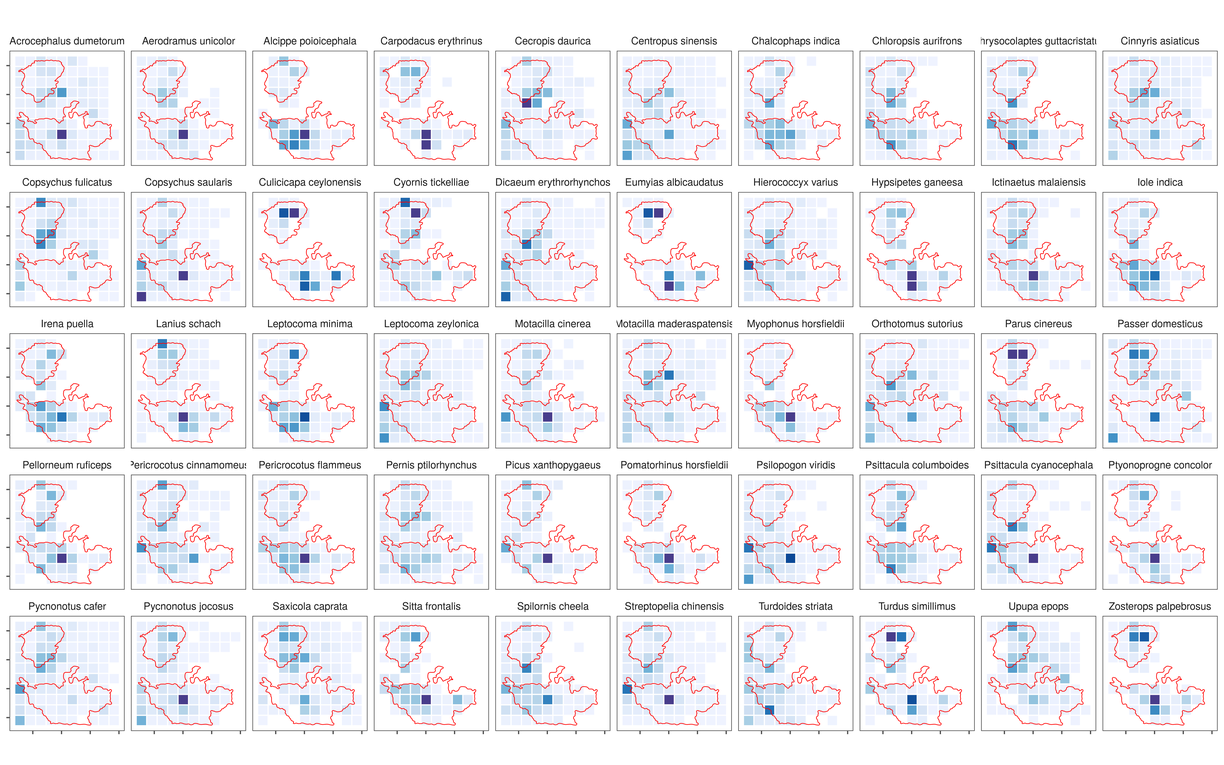
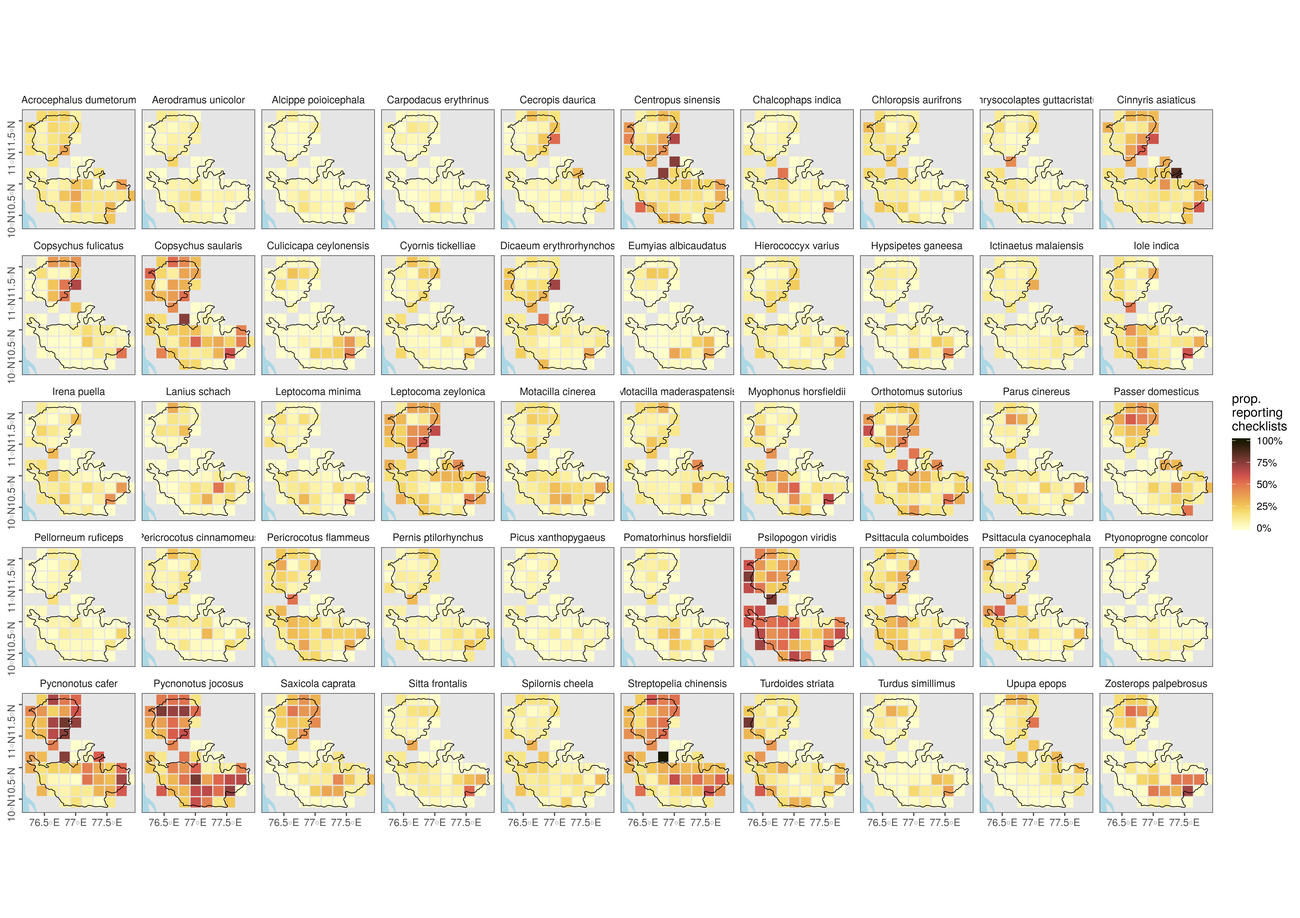
update bookdown file

diff --git a/docs/supplementary-material.html b/docs/supplementary-material.html
@@ -24,7 +24,7 @@
 <meta name="author" content="Vijay Ramesh, Pratik R Gupte, and Morgan Tingley" />
 
 
-<meta name="date" content="2020-01-09" />
+<meta name="date" content="2020-01-11" />
 
   <meta name="viewport" content="width=device-width, initial-scale=1" />
   <meta name="apple-mobile-web-app-capable" content="yes" />
@@ -393,9 +393,14 @@ code span.wa { color: #60a0b0; font-weight: bold; font-style: italic; } /* Warni
 <a class="sourceLine" id="cb58-4" title="4"><span class="kw">library</span>(magrittr)</a>
 <a class="sourceLine" id="cb58-5" title="5"><span class="kw">library</span>(stringr)</a>
 <a class="sourceLine" id="cb58-6" title="6"><span class="kw">library</span>(dplyr)</a>
-<a class="sourceLine" id="cb58-7" title="7"></a>
-<a class="sourceLine" id="cb58-8" title="8"><span class="kw">library</span>(ggplot2)</a>
-<a class="sourceLine" id="cb58-9" title="9"><span class="kw">library</span>(ggthemes)</a></code></pre></div>
+<a class="sourceLine" id="cb58-7" title="7"><span class="kw">library</span>(tidyr)</a>
+<a class="sourceLine" id="cb58-8" title="8"></a>
+<a class="sourceLine" id="cb58-9" title="9"><span class="kw">library</span>(ggplot2)</a>
+<a class="sourceLine" id="cb58-10" title="10"><span class="kw">library</span>(ggthemes)</a>
+<a class="sourceLine" id="cb58-11" title="11"><span class="kw">library</span>(scico)</a>
+<a class="sourceLine" id="cb58-12" title="12"></a>
+<a class="sourceLine" id="cb58-13" title="13"><span class="co"># round any function</span></a>
+<a class="sourceLine" id="cb58-14" title="14">round_any &lt;-<span class="st"> </span><span class="cf">function</span>(x, <span class="dt">accuracy =</span> <span class="dv">20000</span>){<span class="kw">round</span>(x<span class="op">/</span>accuracy)<span class="op">*</span>accuracy}</a></code></pre></div>
 </div>
 <div id="read-species-of-interest" class="section level3">
 <h3><span class="header-section-number">7.2.2</span> Read species of interest</h3>
@@ -421,77 +426,96 @@ code span.wa { color: #60a0b0; font-weight: bold; font-style: italic; } /* Warni
 <a class="sourceLine" id="cb60-14" title="14"></a>
 <a class="sourceLine" id="cb60-15" title="15"><span class="co"># keep useful columns</span></a>
 <a class="sourceLine" id="cb60-16" title="16">columnsOfInterest &lt;-<span class="st"> </span><span class="kw">c</span>(<span class="st">&quot;scientific_name&quot;</span>,<span class="st">&quot;observation_count&quot;</span>,<span class="st">&quot;locality&quot;</span>,<span class="st">&quot;locality_id&quot;</span>,<span class="st">&quot;locality_type&quot;</span>,<span class="st">&quot;latitude&quot;</span>,<span class="st">&quot;longitude&quot;</span>,<span class="st">&quot;observation_date&quot;</span>, <span class="st">&quot;sampling_event_identifier&quot;</span>)</a>
-<a class="sourceLine" id="cb60-17" title="17"></a>
-<a class="sourceLine" id="cb60-18" title="18"><span class="co"># keep species of interest</span></a>
-<a class="sourceLine" id="cb60-19" title="19">ebd &lt;-<span class="st"> </span>ebd[scientific_name <span class="op">%in%</span><span class="st"> </span>speciesOfInterest,]</a>
-<a class="sourceLine" id="cb60-20" title="20"></a>
-<a class="sourceLine" id="cb60-21" title="21">ebd &lt;-<span class="st"> </span><span class="kw">select</span>(ebd, <span class="kw">one_of</span>(columnsOfInterest))</a></code></pre></div>
+<a class="sourceLine" id="cb60-17" title="17">ebd &lt;-<span class="st"> </span>ebd[,..columnsOfInterest]</a></code></pre></div>
+<div class="sourceCode" id="cb61"><pre class="sourceCode r"><code class="sourceCode r"><a class="sourceLine" id="cb61-1" title="1"><span class="co"># strict spatial filter and assign grid</span></a>
+<a class="sourceLine" id="cb61-2" title="2">locs &lt;-<span class="st"> </span>ebd[,.(longitude, latitude)]</a>
+<a class="sourceLine" id="cb61-3" title="3"></a>
+<a class="sourceLine" id="cb61-4" title="4"><span class="co"># transform to UTM and get 20km boxes</span></a>
+<a class="sourceLine" id="cb61-5" title="5">coords &lt;-<span class="st"> </span><span class="kw">setDF</span>(locs) <span class="op">%&gt;%</span><span class="st"> </span></a>
+<a class="sourceLine" id="cb61-6" title="6"><span class="st">  </span><span class="kw">st_as_sf</span>(<span class="dt">coords =</span> <span class="kw">c</span>(<span class="st">&quot;longitude&quot;</span>, <span class="st">&quot;latitude&quot;</span>)) <span class="op">%&gt;%</span><span class="st"> </span></a>
+<a class="sourceLine" id="cb61-7" title="7"><span class="st">  `</span><span class="dt">st_crs&lt;-</span><span class="st">`</span>(<span class="dv">4326</span>) <span class="op">%&gt;%</span><span class="st"> </span></a>
+<a class="sourceLine" id="cb61-8" title="8"><span class="st">  </span><span class="kw">bind_cols</span>(<span class="kw">as.data.table</span>(<span class="kw">st_coordinates</span>(.))) <span class="op">%&gt;%</span><span class="st">  </span></a>
+<a class="sourceLine" id="cb61-9" title="9"><span class="st">  </span><span class="kw">st_transform</span>(<span class="dv">32643</span>) <span class="op">%&gt;%</span><span class="st"> </span></a>
+<a class="sourceLine" id="cb61-10" title="10"><span class="st">  </span><span class="kw">mutate</span>(<span class="dt">id =</span> <span class="dv">1</span><span class="op">:</span><span class="kw">nrow</span>(.))</a>
+<a class="sourceLine" id="cb61-11" title="11"></a>
+<a class="sourceLine" id="cb61-12" title="12"><span class="co"># convert wg to UTM for filter</span></a>
+<a class="sourceLine" id="cb61-13" title="13">wg &lt;-<span class="st"> </span><span class="kw">st_transform</span>(wg, <span class="dv">32643</span>)</a>
+<a class="sourceLine" id="cb61-14" title="14">coords &lt;-<span class="st"> </span>coords <span class="op">%&gt;%</span><span class="st"> </span></a>
+<a class="sourceLine" id="cb61-15" title="15"><span class="st">  </span><span class="kw">filter</span>(id <span class="op">%in%</span><span class="st"> </span><span class="kw">unlist</span>(<span class="kw">st_contains</span>(wg, coords))) <span class="op">%&gt;%</span><span class="st"> </span></a>
+<a class="sourceLine" id="cb61-16" title="16"><span class="st">  </span><span class="kw">rename</span>(<span class="dt">longitude =</span> X, <span class="dt">latitude =</span> Y) <span class="op">%&gt;%</span><span class="st"> </span></a>
+<a class="sourceLine" id="cb61-17" title="17"><span class="st">  </span><span class="kw">bind_cols</span>(<span class="kw">as.data.table</span>(<span class="kw">st_coordinates</span>(.))) <span class="op">%&gt;%</span></a>
+<a class="sourceLine" id="cb61-18" title="18"><span class="st">  </span><span class="kw">st_drop_geometry</span>() <span class="op">%&gt;%</span><span class="st"> </span></a>
+<a class="sourceLine" id="cb61-19" title="19"><span class="st">  </span><span class="kw">as.data.table</span>()</a>
+<a class="sourceLine" id="cb61-20" title="20"></a>
+<a class="sourceLine" id="cb61-21" title="21"><span class="co"># remove unneeded objs</span></a>
+<a class="sourceLine" id="cb61-22" title="22"><span class="kw">rm</span>(locs); <span class="kw">gc</span>()</a>
+<a class="sourceLine" id="cb61-23" title="23"></a>
+<a class="sourceLine" id="cb61-24" title="24">coords &lt;-<span class="st"> </span>coords[,.N,by=.(longitude, latitude, X, Y)]</a>
+<a class="sourceLine" id="cb61-25" title="25"></a>
+<a class="sourceLine" id="cb61-26" title="26">ebd &lt;-<span class="st"> </span><span class="kw">merge</span>(ebd, coords, <span class="dt">all =</span> <span class="ot">FALSE</span>, <span class="dt">by =</span> <span class="kw">c</span>(<span class="st">&quot;longitude&quot;</span>, <span class="st">&quot;latitude&quot;</span>))</a>
+<a class="sourceLine" id="cb61-27" title="27"></a>
+<a class="sourceLine" id="cb61-28" title="28">ebd &lt;-<span class="st"> </span>ebd[(longitude <span class="op">%in%</span><span class="st"> </span>coords<span class="op">$</span>longitude) <span class="op">&amp;</span><span class="st"> </span>(latitude <span class="op">%in%</span><span class="st"> </span>coords<span class="op">$</span>latitude),]</a></code></pre></div>
 </div>
 <div id="get-proportional-obs-counts-in-20km-cells" class="section level3">
 <h3><span class="header-section-number">7.2.4</span> Get proportional obs counts in 20km cells</h3>
-<div class="sourceCode" id="cb61"><pre class="sourceCode r"><code class="sourceCode r"><a class="sourceLine" id="cb61-1" title="1"><span class="co"># transform data to UTM zone 43N</span></a>
-<a class="sourceLine" id="cb61-2" title="2">ebd &lt;-<span class="st"> </span><span class="kw">setDF</span>(ebd) <span class="op">%&gt;%</span><span class="st"> </span></a>
-<a class="sourceLine" id="cb61-3" title="3"><span class="st">  </span><span class="kw">st_as_sf</span>(<span class="dt">coords =</span> <span class="kw">c</span>(<span class="st">&quot;longitude&quot;</span>,<span class="st">&quot;latitude&quot;</span>)) <span class="op">%&gt;%</span><span class="st"> </span></a>
-<a class="sourceLine" id="cb61-4" title="4"><span class="st">  `</span><span class="dt">st_crs&lt;-</span><span class="st">`</span>(<span class="dv">4326</span>) <span class="op">%&gt;%</span><span class="st"> </span><span class="kw">st_transform</span>(<span class="dv">32643</span>)</a>
-<a class="sourceLine" id="cb61-5" title="5"></a>
-<a class="sourceLine" id="cb61-6" title="6"><span class="co"># add UTM coordinate columns</span></a>
-<a class="sourceLine" id="cb61-7" title="7">ebd &lt;-<span class="st"> </span><span class="kw">cbind</span>(ebd, <span class="kw">st_coordinates</span>(ebd)) <span class="op">%&gt;%</span></a>
-<a class="sourceLine" id="cb61-8" title="8"><span class="st">  </span><span class="kw">st_drop_geometry</span>() <span class="op">%&gt;%</span><span class="st"> </span></a>
-<a class="sourceLine" id="cb61-9" title="9"><span class="st">  </span><span class="kw">setDT</span>()</a></code></pre></div>
-<div class="sourceCode" id="cb62"><pre class="sourceCode r"><code class="sourceCode r"><a class="sourceLine" id="cb62-1" title="1"><span class="co"># round to cell size</span></a>
-<a class="sourceLine" id="cb62-2" title="2">cell_size =<span class="st"> </span><span class="dv">20000</span> <span class="co"># 20km in metres</span></a>
-<a class="sourceLine" id="cb62-3" title="3">ebd[,<span class="st">`</span><span class="dt">:=</span><span class="st">`</span>(<span class="dt">X_round =</span> plyr<span class="op">::</span><span class="kw">round_any</span>(X, cell_size), <span class="dt">Y_round =</span> plyr<span class="op">::</span><span class="kw">round_any</span>(Y, cell_size))]</a>
-<a class="sourceLine" id="cb62-4" title="4"></a>
-<a class="sourceLine" id="cb62-5" title="5"><span class="co"># set observation count to 1 if NA or X</span></a>
-<a class="sourceLine" id="cb62-6" title="6">ebd_summary &lt;-<span class="st"> </span>ebd[, observation_count <span class="op">:</span><span class="er">=</span><span class="st"> </span><span class="kw">ifelse</span>(observation_count <span class="op">==</span><span class="st"> &quot;X&quot;</span>, <span class="dv">1</span>, observation_count)</a>
-<a class="sourceLine" id="cb62-7" title="7">                   ][,observation_count<span class="op">:</span><span class="er">=</span><span class="kw">as.numeric</span>(observation_count)</a>
-<a class="sourceLine" id="cb62-8" title="8">                     ][,.(<span class="dt">count=</span><span class="kw">sum</span>(observation_count)), </a>
-<a class="sourceLine" id="cb62-9" title="9">                       by =<span class="st"> </span><span class="kw">list</span>(scientific_name, X_round, Y_round)</a>
-<a class="sourceLine" id="cb62-10" title="10">                       ][,prop<span class="op">:</span><span class="er">=</span>count<span class="op">/</span><span class="kw">sum</span>(count), by =<span class="st"> </span><span class="kw">list</span>(scientific_name)]</a></code></pre></div>
+<div class="sourceCode" id="cb62"><pre class="sourceCode r"><code class="sourceCode r"><a class="sourceLine" id="cb62-1" title="1"><span class="co"># round to 20km cell in UTM coords</span></a>
+<a class="sourceLine" id="cb62-2" title="2">ebd[,<span class="st">`</span><span class="dt">:=</span><span class="st">`</span>(<span class="dt">X =</span> <span class="kw">round_any</span>(X), <span class="dt">Y =</span> <span class="kw">round_any</span>(Y))]</a>
+<a class="sourceLine" id="cb62-3" title="3"></a>
+<a class="sourceLine" id="cb62-4" title="4"><span class="co"># count checklists in cell</span></a>
+<a class="sourceLine" id="cb62-5" title="5">ebd_summary &lt;-<span class="st"> </span>ebd[,nchk <span class="op">:</span><span class="er">=</span><span class="st"> </span><span class="kw">length</span>(<span class="kw">unique</span>(sampling_event_identifier)), by=.(X,Y)]</a>
+<a class="sourceLine" id="cb62-6" title="6"></a>
+<a class="sourceLine" id="cb62-7" title="7"><span class="co"># count checklists reporting each species in cell and get proportion</span></a>
+<a class="sourceLine" id="cb62-8" title="8">ebd_summary &lt;-<span class="st"> </span>ebd_summary[,.(<span class="dt">nrep =</span> <span class="kw">length</span>(<span class="kw">unique</span>(sampling_event_identifier))), by =<span class="st"> </span>.(X,Y,nchk,scientific_name)]</a>
+<a class="sourceLine" id="cb62-9" title="9"></a>
+<a class="sourceLine" id="cb62-10" title="10">ebd_summary[,p_rep <span class="op">:</span><span class="er">=</span><span class="st"> </span>nrep<span class="op">/</span>nchk ]</a>
+<a class="sourceLine" id="cb62-11" title="11"></a>
+<a class="sourceLine" id="cb62-12" title="12"><span class="co"># filter for soi</span></a>
+<a class="sourceLine" id="cb62-13" title="13">ebd_summary &lt;-<span class="st"> </span>ebd_summary[scientific_name <span class="op">%in%</span><span class="st"> </span>speciesOfInterest,]</a>
+<a class="sourceLine" id="cb62-14" title="14"></a>
+<a class="sourceLine" id="cb62-15" title="15"><span class="co"># complete the dataframe for no reports</span></a>
+<a class="sourceLine" id="cb62-16" title="16">ebd_summary &lt;-<span class="st"> </span><span class="kw">setDF</span>(ebd_summary) <span class="op">%&gt;%</span><span class="st"> </span></a>
+<a class="sourceLine" id="cb62-17" title="17"><span class="st">  </span><span class="kw">complete</span>(<span class="kw">nesting</span>(X,Y), scientific_name, <span class="dt">fill =</span> <span class="kw">list</span>(<span class="dt">p_rep =</span> <span class="dv">0</span>))</a></code></pre></div>
 </div>
 <div id="plot-maps" class="section level3">
 <h3><span class="header-section-number">7.2.5</span> Plot maps</h3>
-<div class="sourceCode" id="cb63"><pre class="sourceCode r"><code class="sourceCode r"><a class="sourceLine" id="cb63-1" title="1"><span class="co"># get bbox</span></a>
-<a class="sourceLine" id="cb63-2" title="2">bbox &lt;-<span class="st"> </span>wg <span class="op">%&gt;%</span><span class="st"> </span></a>
-<a class="sourceLine" id="cb63-3" title="3"><span class="st">  </span><span class="kw">st_transform</span>(<span class="dv">32643</span>) <span class="op">%&gt;%</span><span class="st"> </span></a>
-<a class="sourceLine" id="cb63-4" title="4"><span class="st">  </span><span class="kw">st_bbox</span>()</a>
-<a class="sourceLine" id="cb63-5" title="5"></a>
-<a class="sourceLine" id="cb63-6" title="6"><span class="co"># add land</span></a>
-<a class="sourceLine" id="cb63-7" title="7"><span class="kw">library</span>(rnaturalearth)</a>
-<a class="sourceLine" id="cb63-8" title="8"><span class="co"># land &lt;- ne_countries(scale = 50, type = &quot;countries&quot;, continent = &quot;asia&quot;,</span></a>
-<a class="sourceLine" id="cb63-9" title="9"><span class="co">#                      country = &quot;india&quot;,</span></a>
-<a class="sourceLine" id="cb63-10" title="10"><span class="co">#                      returnclass = c(&quot;sf&quot;))</span></a>
-<a class="sourceLine" id="cb63-11" title="11"><span class="co"># </span></a>
-<a class="sourceLine" id="cb63-12" title="12"><span class="co"># # crop land</span></a>
-<a class="sourceLine" id="cb63-13" title="13"><span class="co"># land &lt;- st_transform(land, 32643) %&gt;% st_crop(bbox)</span></a></code></pre></div>
+<div class="sourceCode" id="cb63"><pre class="sourceCode r"><code class="sourceCode r"><a class="sourceLine" id="cb63-1" title="1"><span class="co"># add land</span></a>
+<a class="sourceLine" id="cb63-2" title="2"><span class="kw">library</span>(rnaturalearth)</a>
+<a class="sourceLine" id="cb63-3" title="3">land &lt;-<span class="st"> </span><span class="kw">ne_countries</span>(<span class="dt">scale =</span> <span class="dv">50</span>, <span class="dt">type =</span> <span class="st">&quot;countries&quot;</span>, <span class="dt">continent =</span> <span class="st">&quot;asia&quot;</span>,</a>
+<a class="sourceLine" id="cb63-4" title="4">                     <span class="dt">country =</span> <span class="st">&quot;india&quot;</span>,</a>
+<a class="sourceLine" id="cb63-5" title="5">                     <span class="dt">returnclass =</span> <span class="kw">c</span>(<span class="st">&quot;sf&quot;</span>))</a>
+<a class="sourceLine" id="cb63-6" title="6"></a>
+<a class="sourceLine" id="cb63-7" title="7"><span class="co"># crop land</span></a>
+<a class="sourceLine" id="cb63-8" title="8">land &lt;-<span class="st"> </span><span class="kw">st_transform</span>(land, <span class="dv">32643</span>)</a></code></pre></div>
 <div class="sourceCode" id="cb64"><pre class="sourceCode r"><code class="sourceCode r"><a class="sourceLine" id="cb64-1" title="1"><span class="co"># make plot</span></a>
 <a class="sourceLine" id="cb64-2" title="2">wg &lt;-<span class="st"> </span><span class="kw">st_transform</span>(wg, <span class="dv">32643</span>)</a>
-<a class="sourceLine" id="cb64-3" title="3"></a>
-<a class="sourceLine" id="cb64-4" title="4">plotDistributions &lt;-</a>
-<a class="sourceLine" id="cb64-5" title="5"><span class="kw">ggplot</span>()<span class="op">+</span></a>
-<a class="sourceLine" id="cb64-6" title="6"><span class="st">  </span><span class="co"># geom_sf(data = land, fill = &quot;grey99&quot;, col = &quot;transparent&quot;)+</span></a>
-<a class="sourceLine" id="cb64-7" title="7"><span class="st">  </span><span class="kw">geom_tile</span>(<span class="dt">data =</span> ebd_summary,</a>
-<a class="sourceLine" id="cb64-8" title="8">            <span class="kw">aes</span>(X_round, Y_round, <span class="dt">fill =</span> prop), <span class="dt">lwd =</span> <span class="fl">0.5</span>, <span class="dt">col =</span> <span class="st">&quot;white&quot;</span>)<span class="op">+</span></a>
-<a class="sourceLine" id="cb64-9" title="9"><span class="st">  </span><span class="kw">geom_sf</span>(<span class="dt">data =</span> wg, <span class="dt">fill =</span> <span class="st">&quot;transparent&quot;</span>, <span class="dt">col =</span> <span class="st">&quot;red&quot;</span>, <span class="dt">lwd =</span> <span class="fl">0.3</span>)<span class="op">+</span></a>
-<a class="sourceLine" id="cb64-10" title="10"><span class="st">  </span></a>
-<a class="sourceLine" id="cb64-11" title="11"><span class="st">  </span><span class="kw">scale_fill_distiller</span>(<span class="dt">palette =</span> <span class="st">&quot;Blues&quot;</span>, <span class="dt">direction =</span> <span class="dv">1</span>, </a>
-<a class="sourceLine" id="cb64-12" title="12">                       <span class="dt">values =</span> <span class="kw">c</span>(<span class="dv">0</span>, <span class="fl">0.3</span>), <span class="dt">na.value =</span> <span class="st">&quot;darkslateblue&quot;</span>)<span class="op">+</span></a>
+<a class="sourceLine" id="cb64-3" title="3">bbox &lt;-<span class="st"> </span><span class="kw">st_bbox</span>(wg)</a>
+<a class="sourceLine" id="cb64-4" title="4"></a>
+<a class="sourceLine" id="cb64-5" title="5">plotDistributions &lt;-</a>
+<a class="sourceLine" id="cb64-6" title="6"><span class="kw">ggplot</span>()<span class="op">+</span></a>
+<a class="sourceLine" id="cb64-7" title="7"><span class="st">  </span><span class="kw">geom_sf</span>(<span class="dt">data =</span> land, <span class="dt">fill =</span> <span class="st">&quot;grey90&quot;</span>, <span class="dt">col =</span> <span class="ot">NA</span>)<span class="op">+</span></a>
+<a class="sourceLine" id="cb64-8" title="8"><span class="st">  </span><span class="kw">geom_tile</span>(<span class="dt">data =</span> ebd_summary,</a>
+<a class="sourceLine" id="cb64-9" title="9">            <span class="kw">aes</span>(X, Y, <span class="dt">fill =</span> p_rep), <span class="dt">lwd =</span> <span class="fl">0.5</span>, <span class="dt">col =</span> <span class="st">&quot;grey90&quot;</span>)<span class="op">+</span></a>
+<a class="sourceLine" id="cb64-10" title="10"><span class="st">  </span><span class="kw">geom_sf</span>(<span class="dt">data =</span> wg, <span class="dt">fill =</span> <span class="ot">NA</span>, <span class="dt">col =</span> <span class="st">&quot;black&quot;</span>, <span class="dt">lwd =</span> <span class="fl">0.3</span>)<span class="op">+</span></a>
+<a class="sourceLine" id="cb64-11" title="11"><span class="st">  </span></a>
+<a class="sourceLine" id="cb64-12" title="12"><span class="st">  </span><span class="kw">scale_fill_scico</span>(<span class="dt">palette =</span> <span class="st">&quot;lajolla&quot;</span>, <span class="dt">direction =</span> <span class="dv">1</span>, <span class="dt">label =</span> scales<span class="op">::</span>percent)<span class="op">+</span></a>
 <a class="sourceLine" id="cb64-13" title="13"><span class="st">  </span><span class="kw">facet_wrap</span>(<span class="op">~</span>scientific_name, <span class="dt">ncol =</span> <span class="dv">10</span>)<span class="op">+</span></a>
-<a class="sourceLine" id="cb64-14" title="14"><span class="st">  </span><span class="kw">coord_sf</span>()<span class="op">+</span></a>
+<a class="sourceLine" id="cb64-14" title="14"><span class="st">  </span><span class="kw">coord_sf</span>(<span class="dt">xlim =</span> bbox[<span class="kw">c</span>(<span class="st">&quot;xmin&quot;</span>, <span class="st">&quot;xmax&quot;</span>)], <span class="dt">ylim =</span> bbox[<span class="kw">c</span>(<span class="st">&quot;ymin&quot;</span>, <span class="st">&quot;ymax&quot;</span>)])<span class="op">+</span></a>
 <a class="sourceLine" id="cb64-15" title="15"><span class="st">  </span><span class="kw">theme_few</span>()<span class="op">+</span></a>
-<a class="sourceLine" id="cb64-16" title="16"><span class="st">  </span><span class="kw">theme</span>(<span class="dt">legend.position =</span> <span class="st">&quot;none&quot;</span>, </a>
-<a class="sourceLine" id="cb64-17" title="17">        <span class="dt">axis.text =</span> <span class="kw">element_blank</span>(), </a>
-<a class="sourceLine" id="cb64-18" title="18">        <span class="dt">axis.title =</span> <span class="kw">element_blank</span>())</a>
-<a class="sourceLine" id="cb64-19" title="19">  </a>
-<a class="sourceLine" id="cb64-20" title="20"><span class="co"># export data</span></a>
-<a class="sourceLine" id="cb64-21" title="21"><span class="kw">ggsave</span>(plotDistributions, <span class="dt">filename =</span> <span class="st">&quot;figs/fig_species_distributions.png&quot;</span>, </a>
-<a class="sourceLine" id="cb64-22" title="22">       <span class="dt">height =</span> <span class="dv">10</span>, <span class="dt">width =</span> <span class="dv">16</span>, <span class="dt">device =</span> <span class="kw">png</span>(), <span class="dt">dpi =</span> <span class="dv">300</span>); <span class="kw">dev.off</span>()</a></code></pre></div>
+<a class="sourceLine" id="cb64-16" title="16"><span class="st">  </span><span class="kw">theme</span>(<span class="dt">legend.position =</span> <span class="st">&quot;right&quot;</span>, </a>
+<a class="sourceLine" id="cb64-17" title="17">        <span class="dt">axis.title =</span> <span class="kw">element_blank</span>(),</a>
+<a class="sourceLine" id="cb64-18" title="18">        <span class="dt">axis.text.y =</span> <span class="kw">element_text</span>(<span class="dt">angle =</span> <span class="dv">90</span>),</a>
+<a class="sourceLine" id="cb64-19" title="19">        <span class="dt">panel.background =</span> <span class="kw">element_rect</span>(<span class="dt">fill =</span> <span class="st">&quot;lightblue&quot;</span>))<span class="op">+</span></a>
+<a class="sourceLine" id="cb64-20" title="20"><span class="st">  </span><span class="kw">labs</span>(<span class="dt">fill =</span> <span class="st">&quot;prop.</span><span class="ch">\n</span><span class="st">reporting</span><span class="ch">\n</span><span class="st">checklists&quot;</span>)</a>
+<a class="sourceLine" id="cb64-21" title="21">  </a>
+<a class="sourceLine" id="cb64-22" title="22"><span class="co"># export data</span></a>
+<a class="sourceLine" id="cb64-23" title="23"><span class="kw">ggsave</span>(plotDistributions, <span class="dt">filename =</span> <span class="st">&quot;figs/fig_species_distributions.png&quot;</span>, </a>
+<a class="sourceLine" id="cb64-24" title="24">       <span class="dt">height =</span> <span class="dv">12</span>, <span class="dt">width =</span> <span class="dv">17</span>, <span class="dt">device =</span> <span class="kw">png</span>(), <span class="dt">dpi =</span> <span class="dv">300</span>); <span class="kw">dev.off</span>()</a></code></pre></div>
 <div class="sourceCode" id="cb65"><pre class="sourceCode r"><code class="sourceCode r"><a class="sourceLine" id="cb65-1" title="1"><span class="co"># show exported image</span></a>
 <a class="sourceLine" id="cb65-2" title="2">knitr<span class="op">::</span><span class="kw">include_graphics</span>(<span class="st">&quot;figs/fig_species_distributions.png&quot;</span>)</a></code></pre></div>
 <div class="figure">
-<img src="figs/fig_species_distributions.png" alt="Proportion of individuals observed in each grid cell (20km side) between 2013 and 2018. Deeper shades of blue indicate higher proportions in the range 0 -- 0.3, values above 0.3 are coloured purple." width="2400" />
+<img src="figs/fig_species_distributions.png" alt="Proportion of checklists reporting a species in each grid cell (20km side) between 2013 and 2018. Checklists were filtered to be within the boundaries of the Nilgiri Hills (black outline), but rounding to 20km cells may place cells outside the boundary. Deeper shades of red indicate a higher proportion of checklists reporting a species." width="2550" />
 <p class="caption">
-(#fig:export_fig_obs_dist)Proportion of individuals observed in each grid cell (20km side) between 2013 and 2018. Deeper shades of blue indicate higher proportions in the range 0 – 0.3, values above 0.3 are coloured purple.
+(#fig:export_fig_obs_dist)Proportion of checklists reporting a species in each grid cell (20km side) between 2013 and 2018. Checklists were filtered to be within the boundaries of the Nilgiri Hills (black outline), but rounding to 20km cells may place cells outside the boundary. Deeper shades of red indicate a higher proportion of checklists reporting a species.
 </p>
 </div>
 

diff --git a/docs/index.html b/docs/index.html
@@ -24,7 +24,7 @@
 <meta name="author" content="Vijay Ramesh, Pratik R Gupte, and Morgan Tingley" />
 
 
-<meta name="date" content="2020-01-09" />
+<meta name="date" content="2020-01-11" />
 
   <meta name="viewport" content="width=device-width, initial-scale=1" />
   <meta name="apple-mobile-web-app-capable" content="yes" />
@@ -237,7 +237,7 @@ code span.wa { color: #60a0b0; font-weight: bold; font-style: italic; } /* Warni
 <div id="header">
 <h1 class="title">Influence of land cover and climate on the occupancy of avian distributions along a tropical montane gradient</h1>
 <p class="author"><em>Vijay Ramesh, Pratik R Gupte, and Morgan Tingley</em></p>
-<p class="date"><em>2020-01-09</em></p>
+<p class="date"><em>2020-01-11</em></p>
 </div>
 <div id="introduction" class="section level1">
 <h1><span class="header-section-number">Section 1</span> Introduction</h1>

diff --git a/docs/add-covariates-to-subsampled-data.html b/docs/add-covariates-to-subsampled-data.html
@@ -24,7 +24,7 @@
 <meta name="author" content="Vijay Ramesh, Pratik R Gupte, and Morgan Tingley" />
 
 
-<meta name="date" content="2020-01-09" />
+<meta name="date" content="2020-01-11" />
 
   <meta name="viewport" content="width=device-width, initial-scale=1" />
   <meta name="apple-mobile-web-app-capable" content="yes" />

diff --git a/docs/occupancy-modelling.html b/docs/occupancy-modelling.html
@@ -24,7 +24,7 @@
 <meta name="author" content="Vijay Ramesh, Pratik R Gupte, and Morgan Tingley" />
 
 
-<meta name="date" content="2020-01-09" />
+<meta name="date" content="2020-01-11" />
 
   <meta name="viewport" content="width=device-width, initial-scale=1" />
   <meta name="apple-mobile-web-app-capable" content="yes" />

diff --git a/docs/prepare-landscape-data.html b/docs/prepare-landscape-data.html
@@ -24,7 +24,7 @@
 <meta name="author" content="Vijay Ramesh, Pratik R Gupte, and Morgan Tingley" />
 
 
-<meta name="date" content="2020-01-09" />
+<meta name="date" content="2020-01-11" />
 
   <meta name="viewport" content="width=device-width, initial-scale=1" />
   <meta name="apple-mobile-web-app-capable" content="yes" />

diff --git a/docs/prepare-observer-expertise.html b/docs/prepare-observer-expertise.html
@@ -24,7 +24,7 @@
 <meta name="author" content="Vijay Ramesh, Pratik R Gupte, and Morgan Tingley" />
 
 
-<meta name="date" content="2020-01-09" />
+<meta name="date" content="2020-01-11" />
 
   <meta name="viewport" content="width=device-width, initial-scale=1" />
   <meta name="apple-mobile-web-app-capable" content="yes" />

diff --git a/docs/preparing-ebird-data.html b/docs/preparing-ebird-data.html
@@ -24,7 +24,7 @@
 <meta name="author" content="Vijay Ramesh, Pratik R Gupte, and Morgan Tingley" />
 
 
-<meta name="date" content="2020-01-09" />
+<meta name="date" content="2020-01-11" />
 
   <meta name="viewport" content="width=device-width, initial-scale=1" />
   <meta name="apple-mobile-web-app-capable" content="yes" />
